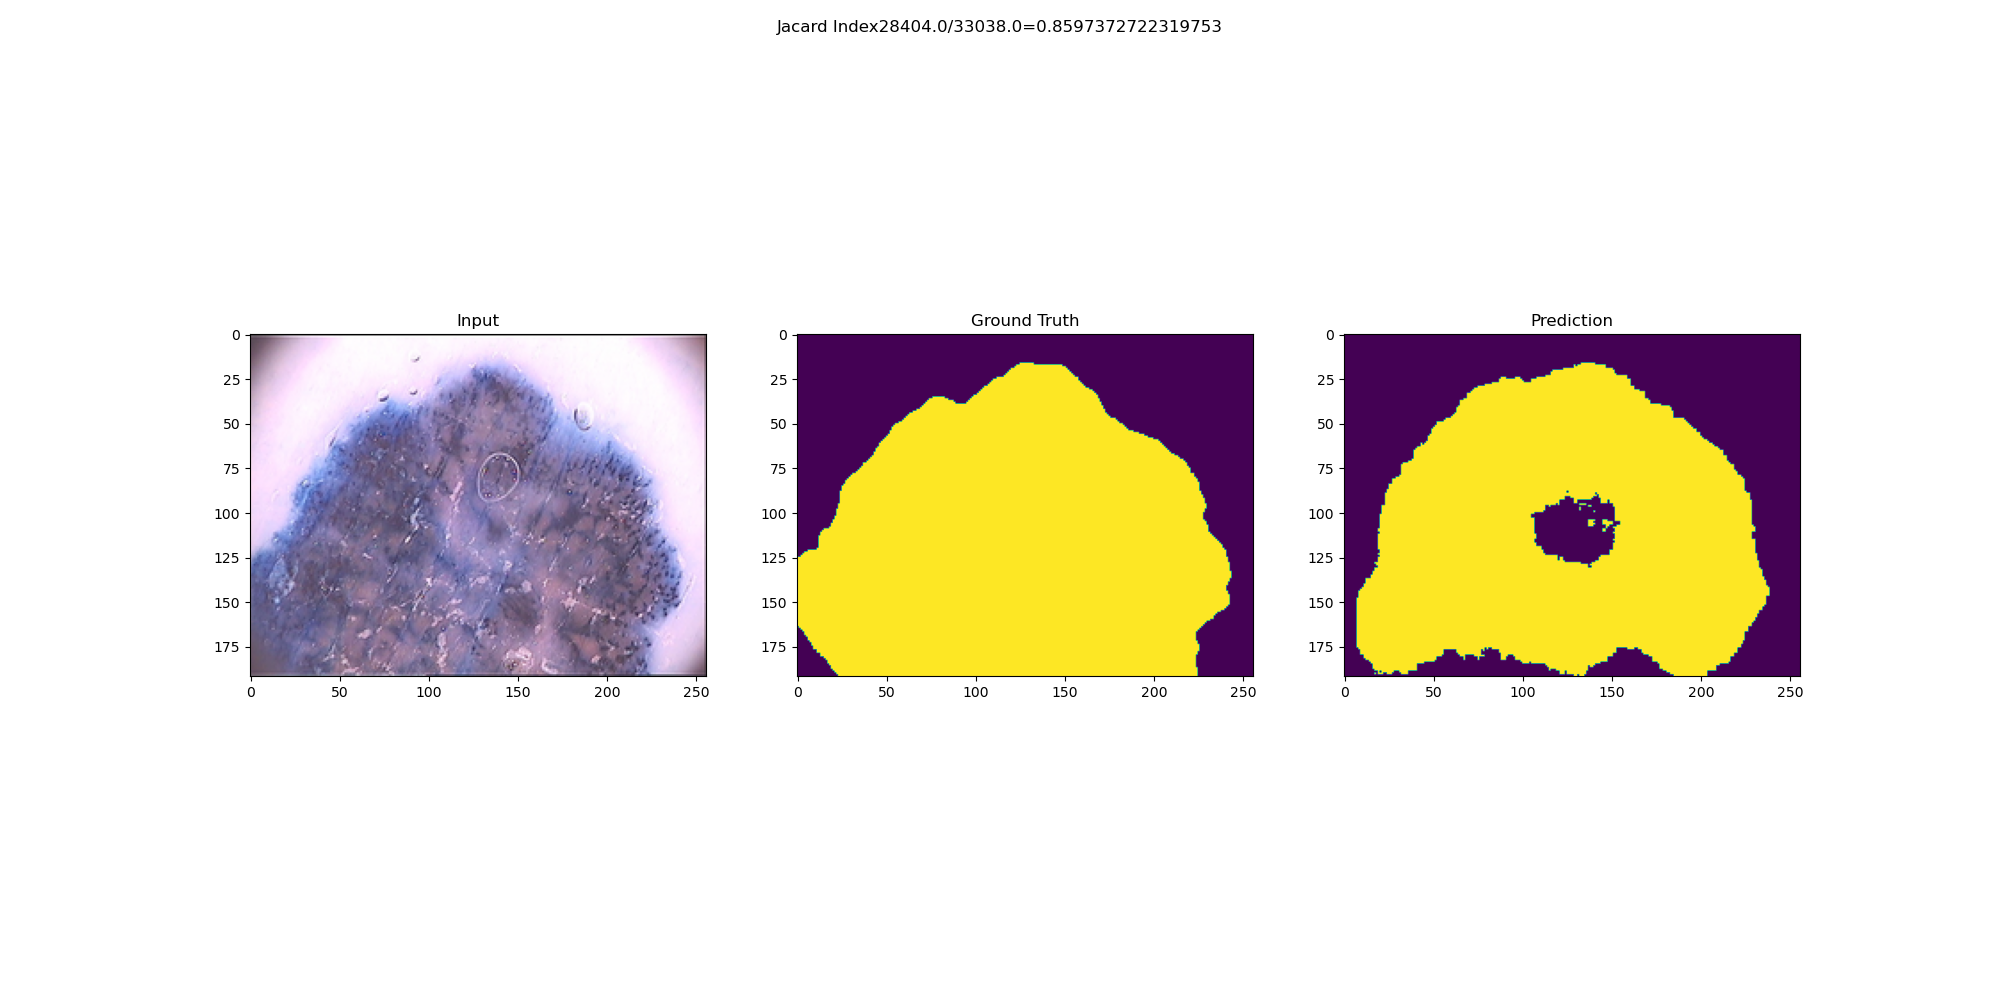
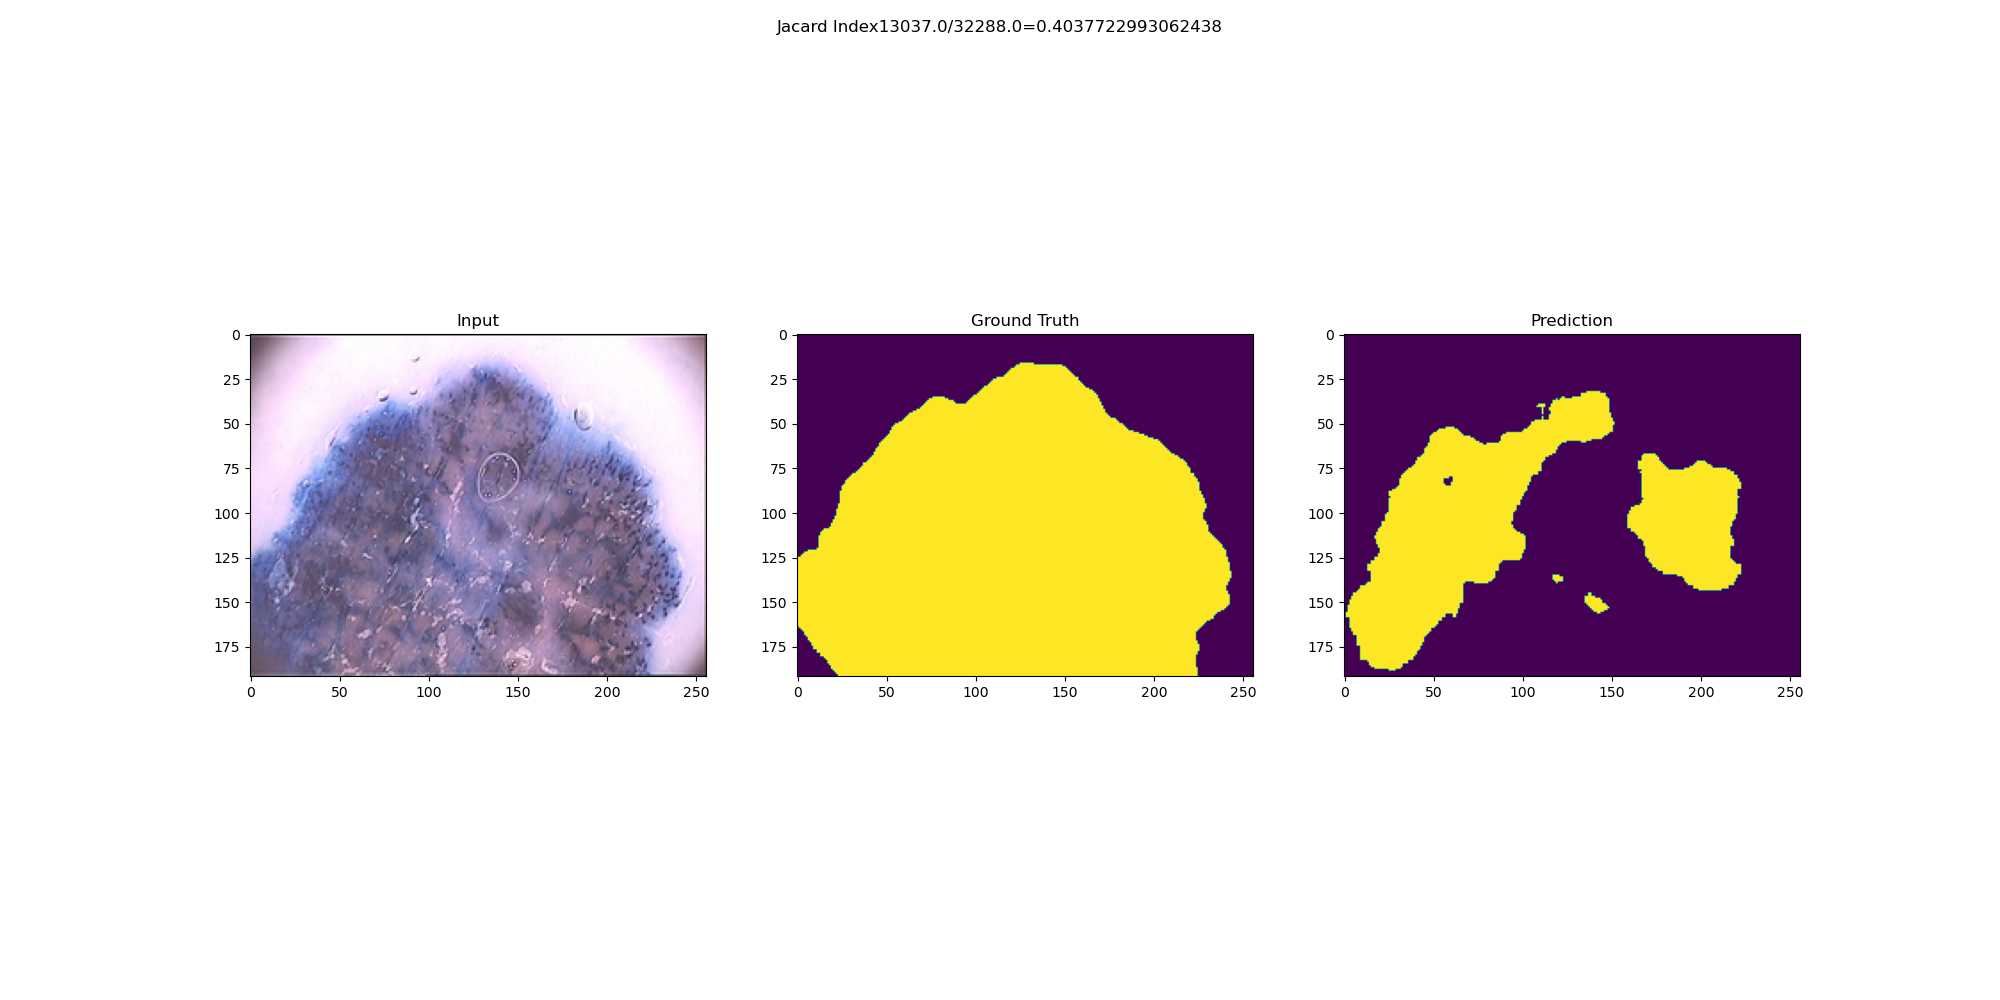
dice coef added val dataset works

diff --git a/SKIN_LEISON/BayesDRRMSAN/bayes_1_test.py b/SKIN_LEISON/BayesDRRMSAN/bayes_1_test.py
@@ -23,7 +23,7 @@ tf.random.set_seed(42)
 ## Hyperparameters
 
 #IMG_SIZE = 256
-EPOCHS = 10
+EPOCHS = 150
 BATCH = 2
 LR = 1e-5
 
